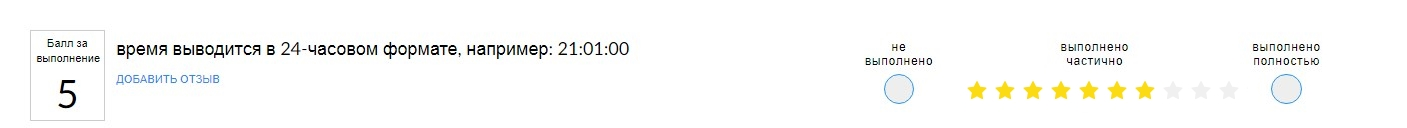
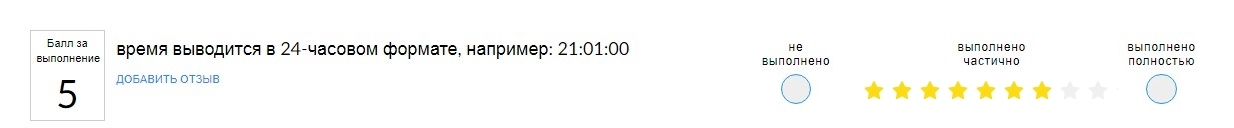
feat: update task

diff --git a/tasks/rss-cross-check/rss-cross-check.md b/tasks/rss-cross-check/rss-cross-check.md
@@ -1,11 +1,14 @@
 ## Описание существующего функционала
 
-Cross-check (дальше - кросс-чек) - взаимопроверка студентами работ друг-друга.  
+Cross-check (дальше - кросс-чек) - взаимопроверка студентами работ друг друга.  
 После дедлайна выполнения задания (как правило 23:59 UTC - 3 часа ночи по Минску) на следующее утро админ или автор таска заходит в rs app и вручную запускает кросс-чек, о чём пишет уведомление в анонсах.  
+После старта кросс-чека между студентами, засабмитившими в rs app ссылки на свои работы, происходит распределение работ других студентов.  
+Студенты в rs app получают ссылки на четыре работы других студентов, которые им нужно проверить по указанным в задании критериям.  
+Проверка включает в себя выставление балла за работу и написание комментария, который обосновывает выставленный балл.  
 Продолжительность кросс-чека чаще всего три дня.  
 Перед дедлайном кросс-чека админ или автор таска пишет об этом в анонсах и на следующее утро заходит в rs app и вручную закрывает кросс-чек.  
-При этом студенты, которые отправили свою работы на проверку и проверили все присланные работы получают баллы за свою работу по результатам кросс-чека.  
-Раньше баллы рассчитывались как среднее арифметичное по результатам всех оценок за кросс-чек, потом решили в случае, если работу проверили все четверо проверяющих, минимальный балл отбрасывать и выставлять среднее из трёх самых высоких оценок.
+После дедлайна кросс-чека студенты, которые проверили все присланные работы получают баллы за свою работу по результатам кросс-чека.  
+Раньше баллы рассчитывались как среднее арифметическое всех полученных оценок за кросс-чек, потом решили в случае, если работу проверили все четверо проверяющих, минимальный балл отбрасывать и выставлять среднее из трёх самых высоких оценок.
 
 ## Предлагаемый функционал
 
@@ -13,18 +16,18 @@ Cross-check (дальше - кросс-чек) - взаимопроверка с
 
 - В форму создания и редактирования задания, которое проверяется кросс-чеком, добавить ещё одно поле **Start Cross-check - End Cross-check** [скриншот](images/1.jpg)
 - Дату и время в это поле подставлять автоматически после того, как указаны дата и время дедлайна таска  
-  Старт кросс-чека немедленно после дедлайна таска, дедлайн кросс-чека через 3дня после старта
-- Предусмотреть возможность изменить дату и время старта и дедлайна кросс-чека вручную в ходе создания или редактирования таска
-- Дата и время дедлайна кросс-чека таска автоматически добавляются в расписание курса
+  Старт кросс-чека немедленно после дедлайна таска, дедлайн кросс-чека через 3 дня после старта
+- Необходимо предусмотреть возможность изменить дату и время старта и дедлайна кросс-чека вручную в ходе создания или редактирования таска
+- Дата и время дедлайна кросс-чека автоматически добавляются в расписание курса
 - После старта кросс-чека происходит автоматическое распределение работ на проверку, как это сейчас происходит при клике по кнопке `Cross-check: Distribute`
 - После дедлайна кросс-чека баллы за работы попадают в скор, как это сейчас происходит при клике по кнопке `Cross-check: Complete`
-- После дедлайна кросс-чека нельзя сабмитить результаты проверки работ студентов (сейчас такая возможность есть, это похоже на баг)
+- После дедлайна кросс-чека нельзя сабмитить результаты проверки (сейчас такая возможность есть, это похоже на баг)
 
-## Доработка процесса отправки работы на проверку
+## 2. Доработка процесса отправки работы на проверку
 
-- в форме отправки работы на проверку видны только первые несколько тасков [скриншот](images/2.jpg). Когда тасков становится много, последние скрываются и без прокрутки их не видно, а иногда и самой полосы прокрутки тоже не видно. Решением может быть или размер поля достаточный чтобы отобразить все таски, или размещение тасков снизу вверх, чтобы последние выданные таски были вверху списка. Таски, сабмит которых ещё доступен, должны выделяться стилем.
+- в форме отправки работы на проверку видны только первые несколько тасков [скриншот](images/2.jpg). Когда тасков становится много, последние скрываются и без прокрутки их не видно, а иногда и самой полосы прокрутки тоже не видно. Решением может быть или высота поля достаточная, чтобы отобразить все таски, или размещение тасков снизу вверх, чтобы последние выданные таски были вверху списка. Таски, сабмит которых ещё доступен, должны выделяться стилем.
 - в форму создания или редактирования таска, проверяемого кросс-чеком, добавить радиокнопку чтобы автор таска мог выбрать что должен студент сабмитить в этом таске. Всего должно быть три варианта: 1) сабмитится ссылка на pull request, 2) сабмитится ссылка на деплой, 3) не проверять сабмит. В соответствии с выбранной опцией, при сабмите студентом ссылки нужно выводить сообщение что должно сабмититься, и проверять ту ли ссылку сабмитит студент
-- сделать возможным изменение засабмиченной ссылки после дедлайна таска, на случай, если оказалось что студент засабмитил нерабочую ссылку и хочет её поменять. При смене ссылки выводить сообщение, что изменение ссылки после дедлайна приводит к потере права на апелляцию. То, что ссылка на работу менялась после дедлайна должно быть видимым для студента и для админов
+- сделать возможным изменение засабмиченной ссылки после дедлайна таска, на случай, если оказалось что студент засабмитил нерабочую ссылку и хочет её поменять. При смене ссылки выводить сообщение, что изменение ссылки после дедлайна приводит к потере права на апелляцию. То, что ссылка на работу менялась после дедлайна, должно быть видимым для студента и для админов
 
 ## Интеграция формы кросс-чека в rs app
 
@@ -34,43 +37,45 @@ Cross-check (дальше - кросс-чек) - взаимопроверка с
 
 В целом существующая форма для проверки нас устраивает, но в неё необходимо внести несколько улучшений
 
-- возможность указать количество баллов за пункт "выполнено частично". Сейчас за него считается половина баллов, что неоправданно много за небольшую неточность, которую и не заметить нельзя, и снять половину баллов много.  
+- возможность указать количество баллов за пункт "выполнено частично". Сейчас за него снимается половина баллов, что неоправданно много за небольшую неточность, которую и не заметить нельзя, и снять половину баллов много.  
 Есть несколько вариантов как можно реализовать эту возможность.  
-Один из возможных вариантов показан на [скриншоте](images/3.jpg): остаются пункты "выполнено полностью" (100% баллов за пункт требований), "не выполнено" (0 баллов), а в пункте "выполнено частично" находятся десять звёздочек, кликами по которым можно указать количество баллов за пункт требований.  
-Другие варианты - `input[type="number"]` в котором можно изменить количество баллов как стрелочками сбоку, так и введя баллы вручную, или `input[type="range"]` в котором можно изменить количество баллов перетаскиванием ползунка
-- нужно предусмотреть, что максимальное количество баллов за выполнение всех пунктов требований может быть больше, чем максимально возможное количество баллов за таск, которое идёт в score
+Один из вариантов показан на [скриншоте](images/3.jpg): остаются пункты "не выполнено" (0 баллов), "выполнено полностью" (100% баллов за пункт требований), а в пункте "выполнено частично" находятся девять звёздочек, каждой из которых соответствует 10% выполнения задания. Кликами по звёздочкам можно указать процент выполнения пункта требований, при этом количество баллов форма считает сама, исходя из максимального балла за данный пункт.  
+Этот вариант кажется предпочтительным, потому что кликать удобнее и быстрее, чем перетаскивать ползунок, а количество проверяемых пунктов в задании может составлять несколько десятков.  
+Другие варианты - `input[type="number"]` в котором можно изменить количество баллов как стрелочками сбоку, так и введя баллы вручную, или `input[type="range"]` в котором можно изменить количество баллов перетаскиванием ползунка.  
+- нужно предусмотреть, что количество баллов за выполнение всех пунктов требований, может быть больше, чем максимально возможное количество баллов за таск, которое идёт в score
 - сохранение комментариев проверяющего без необходимости нажимать сочетание клавиш "Ctrl + Enter"
 - радиокнопка "Отметить работу как лучшую" с пояснением какие работы считаются лучшими. Функционал кнопки рассматривается ниже
 
 #### Как должна работать форма кросс-чека
 
-Попытка интегрировать форму кросс-чека в rs app уже была, но отображалась форма только у автора работы, который мог с её помощью проверить свою собственную работу. Самопроверка работы по пунктам требований тоже нужна и полезна, но также необходимо, чтобы студенты проверяли присланные на проверку работы по этой же форме. 
+Попытка интегрировать форму кросс-чека в rs app уже была [обсуждение](https://github.com/rolling-scopes/rsschool-app/issues/664), но отображалась форма только у автора работы, который мог с её помощью проверить свою собственную работу. Самопроверка работы по пунктам требований тоже нужна и полезна, но также необходимо, чтобы студенты в ходе кросс-чека проверяли присланные на проверку работы по этой же форме. 
 
-У автора работы результат проверки его работы будет отображаться как перечень пунктов требований напротив каждого из которых отображается пять оценок - его собственная и четыре оценки проверяющих.
+У автора работы результат проверки его работы в ходе кросс-чека будет отображаться как перечень пунктов требований напротив каждого из которых отображается пять оценок - его собственная самооценка и четыре оценки проверяющих.
 
-У проверяющего форма для кросс-чека будет отображаться как перечень пунктов требований, напротив каждого из которых выставлены баллы. После сабмита выставленного проверяющим балла у проверяющего отобразится также самооценка автора работы по пунктам требований.
+У проверяющего форма для кросс-чека будет отображаться как перечень пунктов требований, напротив каждого из которых необходимо выставить баллы.  
+После сабмита проверяющим балла за таск, у него отобразится также самооценка автора работы по пунктам требований.  
 
-После окончания (дедлайна) кросс-чека у проверяющего отобразятся оценки не только автора работы, но и всех других проверяющих.
+После окончания (дедлайна) кросс-чека у проверяющего для каждого проверенного им студента отобразится самооценка автора работы и оценки всех других проверяющих.
 
 #### Добавление формы кросс-чека в rs app
 
-Сейчас добавление формы для кросс-чека происходит редактированием json-файла [пример](https://github.com/rolling-scopes-school/checklist/blob/master/active-tasks/rss-fancy-weather.json)  
-Можно такой способ добавления формы в rs app оставить, он удобный и привычный.  
-Если вдруг появится желание сделать веб-интерфейс для добавления формы для кросс-чека, нужно предусмотреть в нём возможность редактирования текущей формы, так как часто нужно поменять всего 1-2 пункта и преписывать ради этого всю форму не очень удобно.
+Сейчас добавление формы для кросс-чека происходит путём редактирования json-файла [пример](https://github.com/rolling-scopes-school/checklist/blob/master/active-tasks/rss-fancy-weather.json)  
+Можно такой способ добавления формы для кросс-чека в rs app оставить, он вполне удобный и привычный.  
+Если вдруг появится желание сделать веб-интерфейс для добавления формы для кросс-чека в rs app, нужно предусмотреть в нём возможность редактирования текущей формы, так как часто нужно поменять всего 1-2 пункта и переписывать ради этого всю форму будет не очень удобно.
 
 ## Обмен сообщениями между проверяемым и проверяющим в ходе кросс-чека
 
 Об этом функционале студенты просят уже очень давно.  
 Речь не о полноценном чате, не о мгновенном обмене сообщениями.  
-Как сейчас проверяющий отправляет сообщение проверяемому с результатом проверки его задания и комментрием к нему, по той же схеме проверяемый может отправить сообщение проверяющему с просьбой перепроверить работу, обратить внимание на отдельный пункт требований к заданию.
+Как сейчас проверяющий отправляет сообщение проверяемому с результатом проверки его задания и комментарием к нему, по той же схеме проверяемый может отправить сообщение проверяющему с просьбой перепроверить работу, обратить внимание на отдельный пункт требований к заданию.
 
-Это могут быть как комментарии в свободной форме, так и сообщения из списка подготовленных фраз "Функционал в пунктах [здесь перечень пунктов] работает, пожалуйста, перепроверьте", "Я считаю, что баллы за пункты [здесь перечень пунктов] не соответствуют моей работе" и т.д).
+Это могут быть как комментарии в свободной форме, так и сообщения из списка подготовленных фраз "Функционал в пунктах [здесь перечень пунктов] работает, пожалуйста, перепроверьте", "Я считаю, что баллы за пункты [здесь перечень пунктов] не соответствуют моей работе" и т.д.
 
-Уведомления о сообщениях необходимо встроить в rs app, например, будет гореть кружочек возле cross-check review, а также причилать нотификацию в телеграм (о нотификациях будет отдельный пункт ниже)
+Уведомления о сообщениях необходимо встроить в rs app, например, будет гореть кружочек возле cross-check review, а также присылать нотификацию в телеграм (о нотификациях будет отдельный пункт ниже)
 
 Переписка между проверяющим и проверяемым должна быть анонимной, то есть студенты не должны видеть ники, гитхабы или другие контакты тех, с кем переписываются
 
-Админы могут видеть переписку между студентами (об этом должно быть уведомление где-то на странице с сообщениями)
+Админы могут видеть переписку между студентами (об этом должно нужно написать где-то на странице с сообщениями)
 
 Должна храниться история сообщений, новые сообщения не должны затирать предыдущие.
 
@@ -78,7 +83,7 @@ Cross-check (дальше - кросс-чек) - взаимопроверка с
 
 ## Лучшие работы
 
-В интегрированную в rs app форму для кросс-чека нужно добавить радиокнопку "Отметить работу как лучшую" с пояснением что мы ожидаем от лучших работ.
+В интегрированную в rs app форму для кросс-чека нужно добавить радиокнопку "Отметить работу как лучшую" с пояснением, что мы ожидаем от лучших работ.
 
 Для каждого таска должна быть отдельная страница, куда попадают ссылки на работы, отмеченные студентами как лучшие. Доступ к странице с лучшими работами должен быть у админов и у автора таска.
 
@@ -100,13 +105,13 @@ Cross-check (дальше - кросс-чек) - взаимопроверка с
 
 ## Благодарности и жалобы
 
-У студента, работу которого проверили, должна быть возможность поблагодарить проверяющего за отличный кросс-чек или пожаловаться за недобросовестный кросс-чек.
+У студента, работу которого проверили, должна быть возможность поблагодарить проверяющего за отличный кросс-чек или пожаловаться на недобросовестный кросс-чек.
 
 Так как кросс-чек анонимный, все благодарности и жалобы приходят со стандартным текстом и сразу в rs app, минуя дискорд
 
-Нужно продумать как сделать чтобы благодарили не за баллы, а за полезные советы и комментарии. Чтобы жаловались не на баллы, которые не нравятся, а на необоснованно сниженные баллы.
+Нужно подумать, как сделать, чтобы благодарили не за баллы, а за полезные советы и комментарии. Чтобы жаловались не на баллы, которые не нравятся, а на необоснованно сниженные баллы.
 
-По результатам проведённых кросс-чеков можно формировать рейтинг проверяющих.
+По результатам проведённых кросс-чеков, можно формировать рейтинг проверяющих.
 
 Жалобы можно рассматривать в ходе апелляции и по результатам рассмотрения отправлять предупреждение или проверяющему за необъективную проверку, или автору работы за необоснованную жалобу
 
@@ -122,7 +127,7 @@ Cross-check (дальше - кросс-чек) - взаимопроверка с
 - старт кросс-чека, вам нужно проверить работы
 - сутки до дедлайна кросс-чека, а присланные на проверку работы ещё не проверены
 - все присланные на проверку работы проверены в ходе кросс-чека
-- вам прислали сообщение по процесу кросс-чека
+- вам прислали сообщение по процессу кросс-чека
 - вас поблагодарили за кросс-чек
 - на вас пожаловались за кросс-чек
 - вашу работу проверили
@@ -132,9 +137,9 @@ Cross-check (дальше - кросс-чек) - взаимопроверка с
 
 Раз у нас есть баллы за таск автора работы и четырёх проверяющих, можем установить процент расхождения баллов
 
-Расхождение в пределах 10% считаем полным совпадением и такой кросс-чек считаем идеальным
+Расхождение в пределах 10% считаем полным совпадением, и такой кросс-чек считаем идеальным
 
-Если чьи-то баллы отличаются больше чем на 15-20%, эти баллы не учитываем при выставлении балла за таск, автору проверки отправляем предупреждение о необоснованном завышении/занижении баллов. Речь в том числе и про автора работы, если таким студентом окажется он сам
+Если чьи-то баллы отличаются больше чем на 15-20%, эти баллы не учитываем при выставлении балла за таск, автору проверки отправляем предупреждение о необоснованном завышении/занижении баллов. Предупреждение отправляем в том числе и автору работы, если таким студентом окажется он сам
 
 Самые большие отклонения от среднего проверяем в ходе апелляции, по результатам которой отправляются предупреждения студентам, чьи баллы отличаются от результата апелляции больше чем на 15-20%, в том числе и автору работы, если таким студентом окажется он сам.
 
@@ -142,7 +147,7 @@ Cross-check (дальше - кросс-чек) - взаимопроверка с
 
 ## Изменение существующего функционала
 
-Если предложенные правки будут реализованы можно будет отказаться от
-- отбрасывания минимального балла в случае четырёх проверяющих, вместо него отбрасывается балл, который максимально не совпадает с баллами других проверяющих
-- радиокнопку "Отображать моё имя" кросс-чек будет полностью анонимным, каким он и задумывался
-- продлить продолжительность кросс-чека на день для возможности корректировки результатов в процессе обмена сообщениями. Проверять работы в последний день уже нельзя, но можно корректировать выставленные баллы
+Если предложенные правки будут реализованы, можно будет 
+- отказаться от отбрасывания минимального балла в случае четырёх проверяющих, вместо него отбрасывается балл, который максимально не совпадает с баллами других проверяющих
+- убрать радиокнопку "Отображать моё имя", кросс-чек станет полностью анонимным, каким он и задумывался
+- увеличить продолжительность кросс-чека на день для возможности корректировки результатов в процессе обмена сообщениями. Проверять работы в последний день уже нельзя, но можно будет  корректировать выставленные баллы
